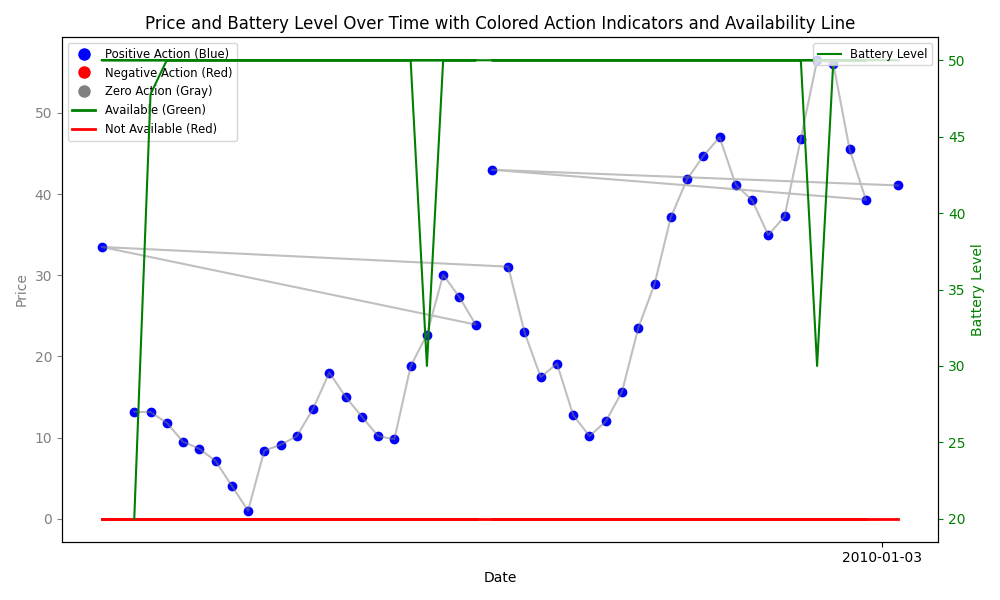
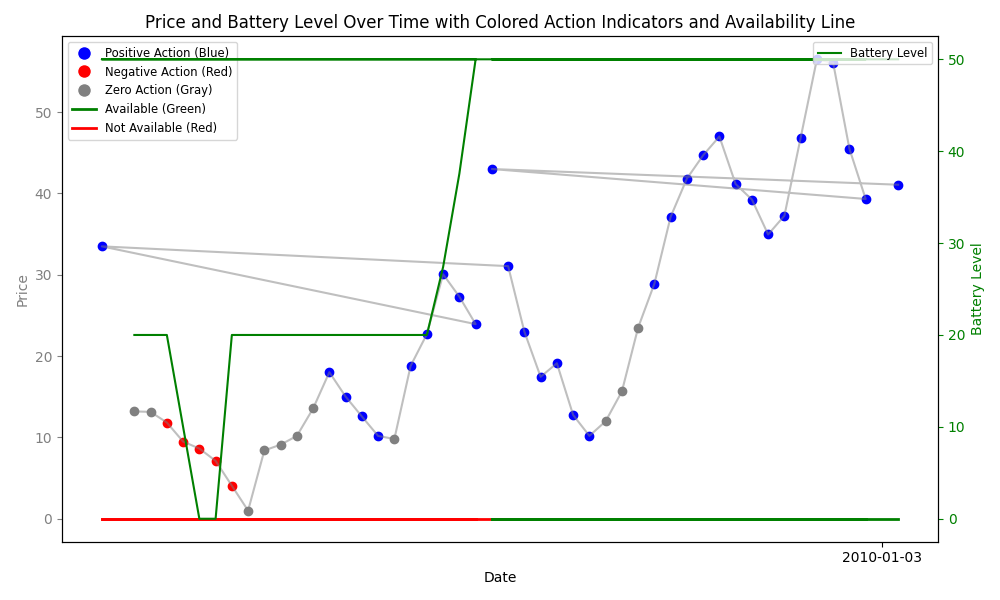
Update

diff --git a/algorithms.py b/algorithms.py
@@ -142,14 +142,14 @@ class EMA:
       
       # Choose the action
       # If the long EMA has not been calculated yet buy the max amount possible
-      if len(self.long_ema_history) < self.len_long and 2 <= state[1] <= 5:
-          self.action = -(self.max_battery - state[0]) / 4
-          self.amount = 4
+      if len(self.long_ema_history) < self.len_long and 3 <= state[1] <= 5:
+          self.action = -(self.max_battery - state[0]) / 3
+          self.amount = 3
       # If the short EMA is below the long EMA, buy
-      elif self.short_ema < self.long_ema and 1 <= state[1] <= 7:
+      elif self.short_ema < self.long_em:
           self.ls_cross = 0
           self.sl_cross += 1
-          if self.sl_cross > 2:
+          if self.sl_cross > 3:
             if self.sl_cross == 2:
                 self.amount = 7 - state[1]
             self.action = -(self.max_battery - state[0]) / self.amount

diff --git a/baseline.py b/baseline.py
@@ -10,7 +10,7 @@ from collections import defaultdict
 from data.data_vis import visualize_bat
 
 # Constants
-NUM_EPISODES = 50  # Define the number of episodes for training
+NUM_EPISODES = 1  # Define the number of episodes for training
 
 def validate_agent(env: Env, agent: Type[QLearningAgent or BuyLowSellHigh or EMA], rl = False) -> None:
     """ Function to validate the agent on a validation set.
@@ -23,7 +23,7 @@ def validate_agent(env: Env, agent: Type[QLearningAgent or BuyLowSellHigh or EMA
     # Initialize the total reward
     total_rewards = np.array([])
     # Loop through the episodes
-    for _ in range(NUM_EPISODES):
+    for episode in range(NUM_EPISODES):
         total_reward = 0
         # Reset the environment
         state = env.reset()
